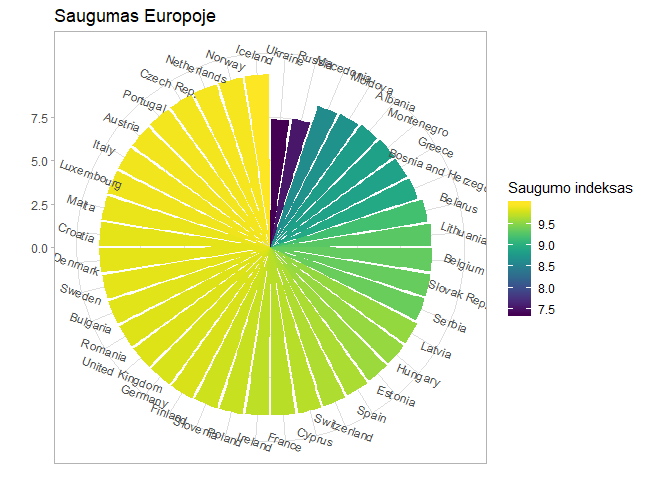
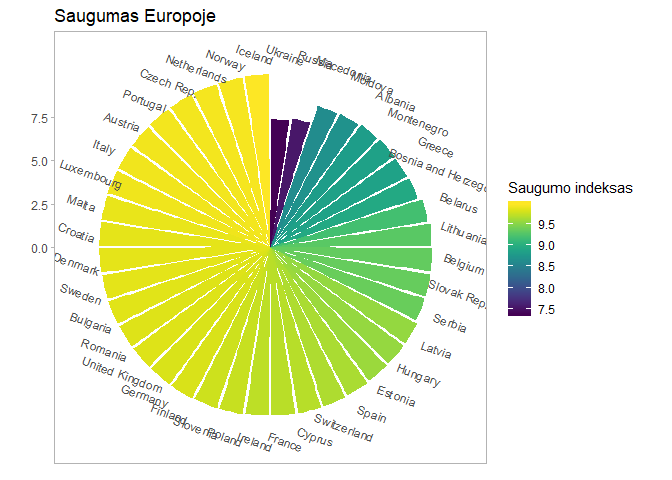
Smulkus 3 failų pataisymai

Changed region(s): [[0.4062, 0.2188, 0.4375, 0.25]]

diff --git a/geo_plots.md b/geo_plots.md
@@ -58,7 +58,7 @@ centroids1 <- apyl %>%
 Vizualinių ir skaitinių duomenų sujungimas
 ------------------------------------------
 
-Skaitiniai duomenys yra LT ir LT1 dataframes. LT rodikliai buvo renkami 2001-20017 m, o LT1 renkami 2014-2017m.
+Skaitiniai duomenys yra LT ir LT1 data frames. LT rodikliai buvo renkami 2001-20017 m, o LT1 renkami 2014-2017m.
 
 LT data frame yra šie rodikliai:
 
@@ -119,7 +119,7 @@ pvz1<-zemelapisaplLT%>%filter(metai==2017)
 pvz2<-zemelapissavivLT%>%filter(metai==2017)
 ```
 
-Pavaizduosime skyrybų dažnumą 2017 m.pagal apylinkes
+Pavaizduosime skyrybų dažnumą 2017 metais pagal apylinkes
 
 ``` r
 ggplot(pvz1)  +
@@ -139,10 +139,11 @@ ggplot(pvz1)  +
 
 ![](geo_plots_files/figure-markdown_github/unnamed-chunk-8-1.png)
 
-Kaip skyrybos keitės apylinkėse skirtingais metais?
+Kaip skyrybų dažnumas keitėsi apylinkėse?
 
 ``` r
-ggplot(zemelapisaplLT)  +
+zemelapisaplLT%>%filter(!is.na(metai))%>%
+ggplot()  +
   geom_sf(aes(fill = istuokos))  + 
   geom_text(aes(X, Y, label = regionas), data = centroidsapl, size = 1.5, color = 'black')+
   facet_wrap(~metai)+
@@ -159,7 +160,7 @@ ggplot(zemelapisaplLT)  +
 
 ![](geo_plots_files/figure-markdown_github/unnamed-chunk-9-1.png)
 
-Tuomet pavaizduosime skyrybų dažnumą 2017 m.pagal savivaldybes
+Tuomet pavaizduosime skyrybų dažnumą 2017 metais pagal savivaldybes
 
 ``` r
 ggplot(pvz2)  +
@@ -178,7 +179,12 @@ ggplot(pvz2)  +
 
 ![](geo_plots_files/figure-markdown_github/unnamed-chunk-10-1.png)
 
-p.s. spalvų variantai žemėlapiams: scale\_fill\_viridis() scale\_fill\_viridis(option = "inferno") scale\_fill\_viridis(option = "cividis") scale\_fill\_gradient(low='gray80', high='midnightblue')
+p.s. spalvų variantai žemėlapiams:
+
+-   scale\_fill\_viridis()
+-   scale\_fill\_viridis(option = "inferno")
+-   scale\_fill\_viridis(option = "cividis")
+-   scale\_fill\_gradient(low='gray80', high='midnightblue')
 
 žemėlapio kaip korio, vaizdavimas
 ---------------------------------
@@ -198,7 +204,7 @@ clean <- function(shape) {
 df_hex_clean<- clean(df_hex)
 ```
 
-Vaizdavimas:
+Vaizdavimas
 
 ``` r
 ggplot(df_hex_clean) +
@@ -211,7 +217,7 @@ ggplot(df_hex_clean) +
 
 ![](geo_plots_files/figure-markdown_github/unnamed-chunk-12-1.png)
 
-Apylinkėms duomenys:
+Duomenys apylinkėms
 
 ``` r
 tmp<-as(pvz1, 'Spatial')
@@ -226,7 +232,7 @@ clean <- function(shape) {
 df_hex_clean<- clean(df_hex)
 ```
 
-Vaizdavimas:
+Vaizdavimas
 
 ``` r
 ggplot(df_hex_clean) +
@@ -245,11 +251,11 @@ Vafliaus grafikas
 Duomenų paruošimas. Pažiūrėsim, kiek vaikų nesimokė mokyklose 2017 metais pagal apylinkes
 
 ``` r
-vaflius<-LT1%>%filter(metai==2017, ID %in% c("62":"71"))
+vaflius<-LT1%>%filter(metai=="2017", ID %in% c("62":"71"))
 vafliusproc <- vaflius$vaikai_nesimokantys_mok
 names(vafliusproc) <- vaflius$regionas
 ```
 
-Vaizdavimas:
+Vaizdavimas
 
 ![](geo_plots_files/figure-markdown_github/pressure-1.png)

diff --git a/basic_visualisation.md b/basic_visualisation.md
@@ -41,13 +41,13 @@ Taip, vizualizuojant duomenis dažniausiai naudojamas ggplot2. Duomenų atvaizda
 
 esquisser() funkcija paleidžia interaktyvų langą, kuriame formuojamas grafikas.
 
-Jei grafikas jau sudarytas ggplot2 pagalba, tačiau norima patobulinti jo apipavidalininimą, galima išviesti ggedit funkciją.
+Jei grafikas jau sudarytas ggplot2 pagalba, tačiau norima patobulinti jo apipavidalinimą, galima iškviesti ggedit funkciją.
 
 Pvz.:
 
 ggedit(grafikas)
 
-Toliau tęsime su ggplot. Pavaizduosime Human Freedom Index duomenis. Pažiūresime, kaip Europos šalyse yra įvertintas valstybinio aparato efektyvumas. Šiais grafikais iliustruosime pagrindinius grafiko nuastatymus.
+Toliau tęsime su ggplot. Pavaizduosime Human Freedom Index duomenis. Pažiūrėsime, kaip Europos šalyse yra įvertintas valstybinio aparato efektyvumas. Šiais grafikais iliustruosime pagrindinius grafiko nustatymus.
 
 Kaip keisti pavadinimus?
 ------------------------
@@ -61,7 +61,7 @@ ggplot(europa,
            y = ef_government,
            color=reorder(countries, ef_government))) +                 #reorder naudojamas susikirstymui
        geom_point(size=2) +
-       labs(title = "Valstybinio aparato efektyvumas..?",              #pavadinimai, kai be pavadinimo = NULL
+       labs(title = "Valstybinio aparato efektyvumas",              #pavadinimai, kai be pavadinimo = NULL
            x = NULL,
            y = "Valstybinio aparato efektyvumas",
            caption = "*didesnis įvertis atspindi daugiau laisvės",
@@ -73,8 +73,6 @@ ggplot(europa,
        geom_vline(xintercept=2016, color="black", size=1, alpha=0.2)+  #tiesė, kertanti x ašį
        facet_wrap(~region, labeller = labeller(region = region.labs))  #kodas perrašyti "facet" pavadinimus
 ```
-
-    ## Warning: Removed 8 rows containing missing values (geom_point).
 
 ![](basic_visualisation_files/figure-markdown_github/unnamed-chunk-3-1.png)
 
@@ -140,7 +138,8 @@ europa %>%
     panel.background = element_rect(fill = "white", colour = "white", size = 0.5, linetype = "solid"), 
     axis.title.x=element_blank(),
     axis.text.x=element_blank(),
-    axis.ticks.x=element_blank(),axis.title.y=element_blank(),
+    axis.ticks.x=element_blank(),
+    axis.title.y=element_blank(),
     axis.text.y=element_blank(),
     axis.ticks.y=element_blank())+
     theme(legend.title=element_blank())  

diff --git a/bar_plots.md b/bar_plots.md
@@ -13,7 +13,7 @@ gini = res$gini
 
 Grafikams naudosime Human Freedom Index duomenis. Duomenis vaizduosime stulpeliniais grafikais.
 
-Pagindinė biblioteka ggplot.
+Pagrindinė biblioteka ggplot2.
 
 Bibliotekos
 -----------
@@ -178,9 +178,11 @@ europa %>% filter(year==2016) %>%
   ggplot(aes(x=reorder(countries, pf_ss), y=pf_ss, fill=pf_ss)) +
   geom_bar(stat="identity") +
   theme_light()+
-  theme(axis.title.y=element_text(angle=0)) + 
+  theme(axis.title.y=element_blank()) + 
   theme(axis.text.x = element_text(angle=45, vjust = 1, hjust=1))+
   theme(axis.text.x = element_text(angle=-20))+
+  theme(panel.grid.major = element_blank(),
+        panel.grid.minor = element_blank())+
   coord_polar()+
   labs(title = "Saugumas Europoje",
        fill="Saugumo indeksas",
@@ -219,4 +221,4 @@ europa %>% filter(year==2016) %>%
              labeller = labeller(region = region.labs))
 ```
 
-![](bar_plots_files/figure-markdown_github/unnamed-chunk-9-1.png)
+![](bar_plots_files/figure-markdown_github/pressure-1.png)
